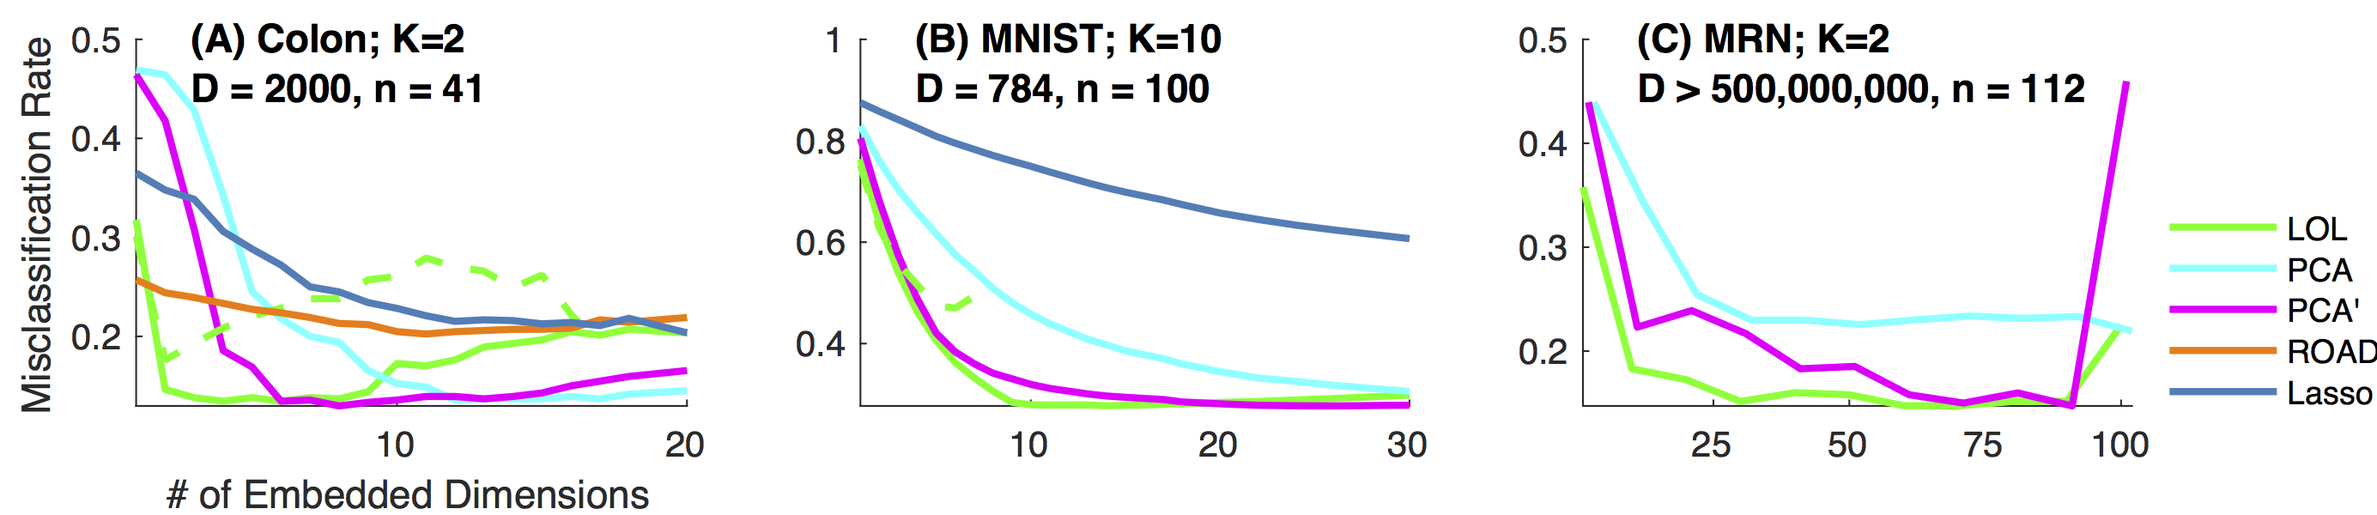
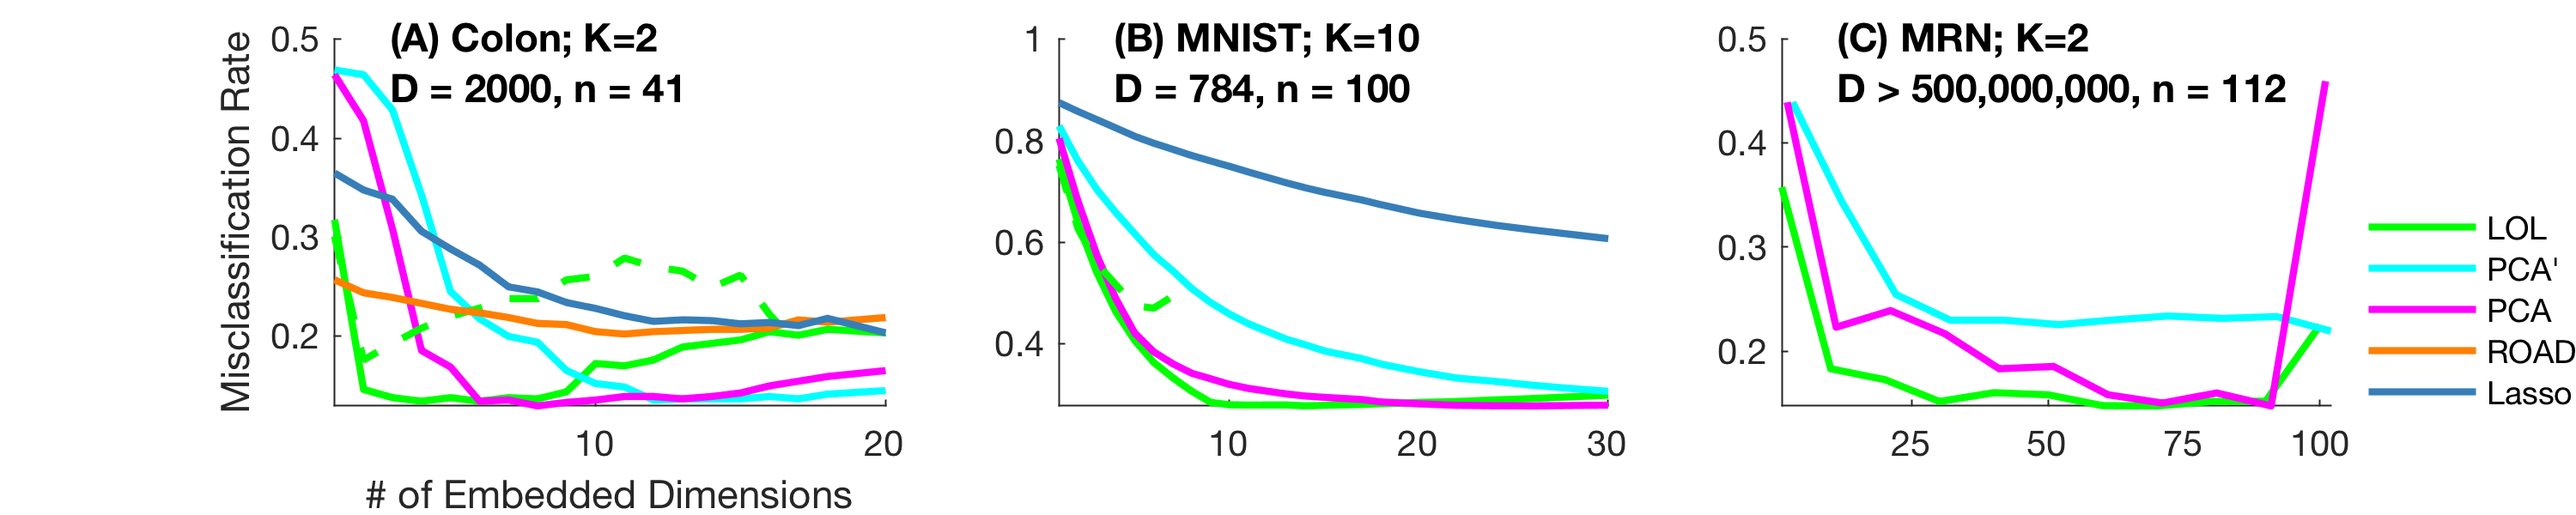
updates

diff --git a/docs/remarkstyle.css b/docs/remarkstyle.css
@@ -244,6 +244,14 @@ th {
     color: white;
 }
 
+.remark-slide-number {
+  font-size: 10pt;
+  margin-bottom: -11.6px;
+  margin-right: 10px;
+  color: black; /*#FFFFFF; /* white */
+  opacity: 0; /* default: 0.5 */
+}
+
 /*code.has-jax {
   font: inherit;
   font-size: 100%;

diff --git a/Code/Simple/plot_all.m b/Code/Simple/plot_all.m
@@ -1,7 +1,7 @@
 set_path
 clear, clc
 
-i=1;
+i=2;
 
 if i==1, sit='sims';
 elseif i==2, sit='real';
@@ -54,6 +54,7 @@ if strcmp(sit,'sims')
     F.ncols=3;
 elseif strcmp(sit,'real')
     F.nrows=1;
+    F.ncols=S;
 elseif strcmp(sit,'dead')
     F.ncols=1;
 end
